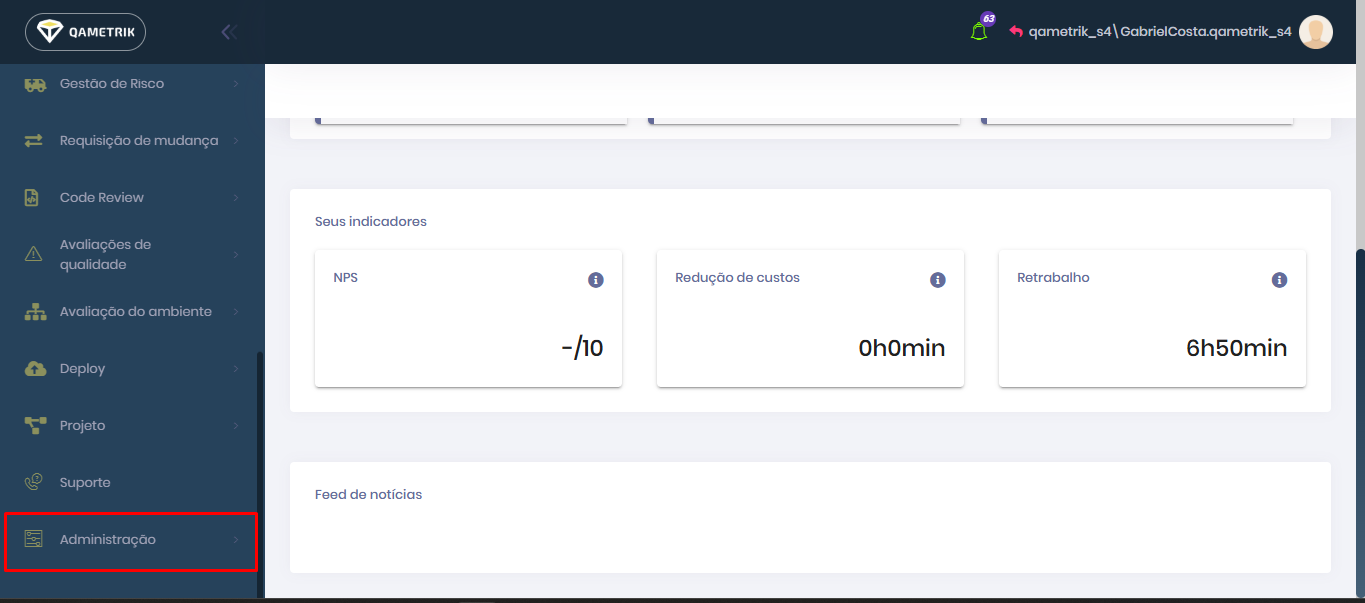
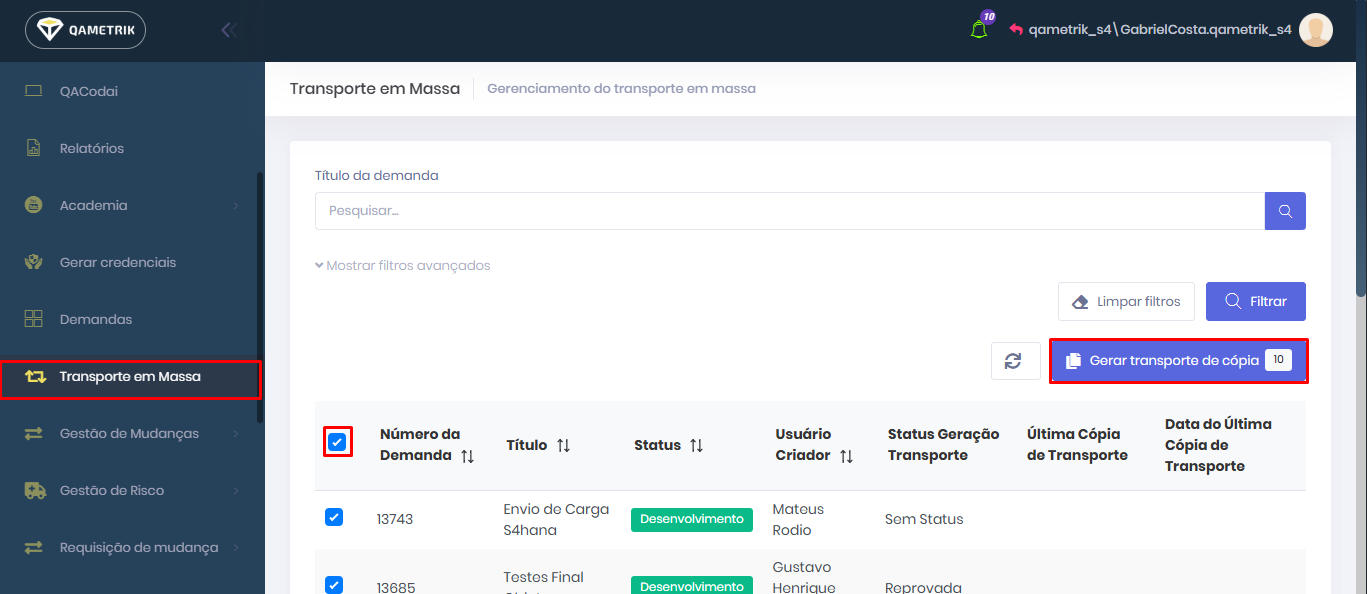
GITBOOK-62: No subject

diff --git a/transporte-em-massa/funcionalidade.md b/transporte-em-massa/funcionalidade.md
@@ -1,0 +1,19 @@
+# Funcionalidade
+
+Aqui você pode ver e gerenciar as demandas para transporte. A lista abaixo mostra o status de cada uma delas, e você pode usar a barra de pesquisa para encontrar uma específica.
+
+* Status da Demanda: Veja em que etapa cada demanda se encontra.
+* Número da Demanda: Identificação única de cada item.
+* Criado por: O nome do usuário que criou a demanda.
+* Status do Transporte: Acompanhe o andamento do transporte, como "Em andamento" ou "Concluído".
+* Última Cópia: A cópia mais recente gerada para a demanda.
+* Última Atualização: A data da última alteração.
+
+#### Como Funciona
+
+1. Selecione as Demandas: Marque a caixa de seleção ao lado de cada demanda que você quer transportar. É possível selecionar até 10 demandas por vez.
+2. Gere o Transporte: Depois de selecionar, clique no botão "Gerar Transporte de Cópia". Isso iniciará o processo de transporte das cópias para o ambiente de controle de qualidade (QA).
+3. Acompanhamento de Progresso: Depois de fazer a solicitação de transporte de cópia, utilize o botão de "refresh" para acompanhar o progresso.
+4. Disponibilidade: Essa Funcionalidade está somente disponível para o perfil de Administrador.
+
+<figure><img src="../.gitbook/assets/image.png" alt=""><figcaption></figcaption></figure>

diff --git a/SUMMARY.md b/SUMMARY.md
@@ -44,3 +44,5 @@
   * [Habilitar anexos obrigatórios na demanda](configuracoes-gerais/habilitar-anexos-obrigatorios-na-demanda.md)
   * [Habilitar validação de objetos que alteram tabelas](configuracoes-gerais/habilitar-validacao-de-objetos-que-alteram-tabelas.md)
   * [Limitador de Objetos na Demanda](configuracoes-gerais/limitador-de-objetos-na-demanda.md)
+* [Transporte em Massa](transporte-em-massa/README.md)
+  * [Funcionalidade](transporte-em-massa/funcionalidade.md)

diff --git a/README.md b/README.md
@@ -2,20 +2,6 @@
 description: Início
 cover: .gitbook/assets/bg-omg.jpg
 coverY: 0
-layout:
-  cover:
-    visible: true
-    size: hero
-  title:
-    visible: true
-  description:
-    visible: true
-  tableOfContents:
-    visible: true
-  outline:
-    visible: true
-  pagination:
-    visible: true
 ---
 
 # 💎 Documentação QADevOps

diff --git a/configuracoes-gerais/como-configurar.md b/configuracoes-gerais/como-configurar.md
@@ -2,7 +2,7 @@
 
 No menu desça até "Administração".
 
-<figure><img src="../.gitbook/assets/image.png" alt=""><figcaption></figcaption></figure>
+<figure><img src="../.gitbook/assets/image (1).png" alt=""><figcaption></figcaption></figure>
 
 Depois clique em "Integrações" e "Configurações gerais".
 

diff --git a/gestao-de-mudanca-gmud/README.md b/gestao-de-mudanca-gmud/README.md
@@ -1,16 +1,5 @@
 ---
 description: Detalhes da Funcionalidade GMUD
-layout:
-  title:
-    visible: true
-  description:
-    visible: true
-  tableOfContents:
-    visible: true
-  outline:
-    visible: true
-  pagination:
-    visible: true
 ---
 
 # Gestão de Mudança - GMUD

diff --git a/transporte-em-massa/README.md b/transporte-em-massa/README.md
@@ -1,0 +1,2 @@
+# Transporte em Massa
+
